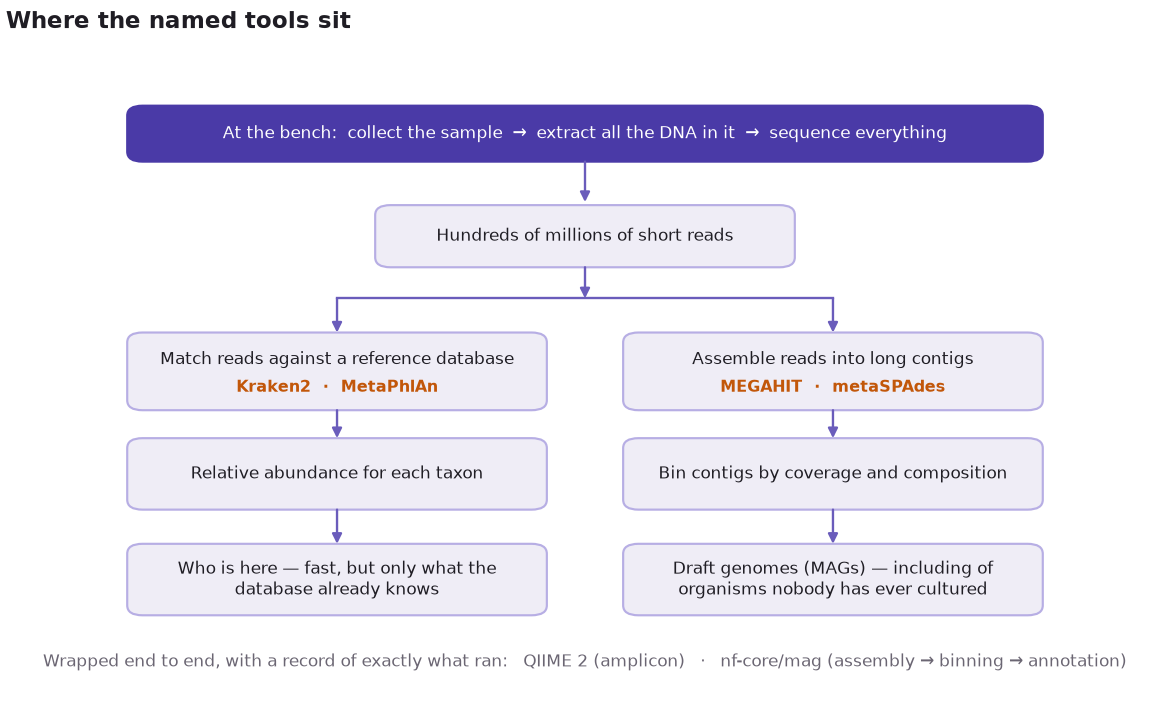
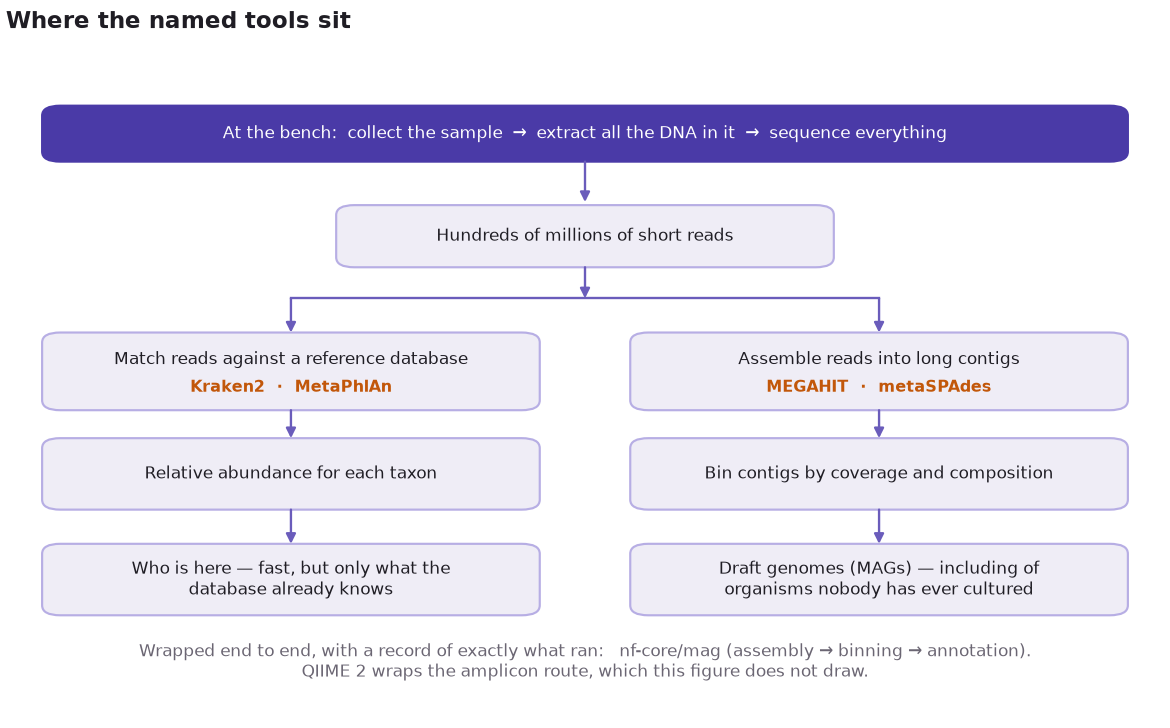
fix(posts): correct the two claims the review found unsupported
The compositionality caveat was stated backwards — "a taxon can rise only
because another fell" is false in absolute terms and a tautology in
relative ones. The actual hazard is that relative data cannot distinguish
a real increase in one taxon from a decrease in another, so say that.

The 1985 Pace claim cited Lane et al. 1985 PNAS, which is a
reverse-transcriptase sequencing protocol, not the environmental survey
proposal. That proposal is Pace, Stahl, Lane & Olsen, ASM News 51:4-12;
cite it, and keep the PNAS paper as the companion method paper.

Also: restore the dropped subtitle on the Handelsman reference, give the
culturability figure the provenance CLAUDE.md asks for (who assembled the
counts, what rides on them, why a log scale), stop the pipeline figure
claiming QIIME 2 wraps a route it does not draw, and bring the cover badge
in line with the frontmatter categories at house title margins.

diff --git a/docs/posts/metagenomics/index.html b/docs/posts/metagenomics/index.html
@@ -184,17 +184,17 @@ ul.task-list li input[type="checkbox"] {
 <figcaption>Metagenomics: Reading the Life That Won’t Grow</figcaption>
 </figure>
 </div>
-<p>A teaspoon of garden soil holds a billion bacterial cells from thousands of species. Smear it on nutrient agar, incubate it, and you get colonies — a few hundred, from a few dozen kinds. The rest are still in the teaspoon, alive, running chemistry nobody has catalogued, refusing to grow for you. For a century that was the edge of the map: microbiology could study only what it could talk into reproducing in a dish.</p>
+<p>A teaspoon of garden soil holds a billion bacterial cells from thousands of species. Smear it on nutrient agar, incubate it, and you get colonies — a few hundred, from a few dozen kinds. The rest are still in the teaspoon, alive, running chemistry nobody has catalogued, refusing to grow for you. For a century that was the edge of the map: microbiology could study only what it could talk into a dish.</p>
 <section id="the-petri-dish-was-throwing-away-almost-everything" class="level2">
 <h2 class="anchored" data-anchor-id="the-petri-dish-was-throwing-away-almost-everything">The petri dish was throwing away almost everything</h2>
-<p>Staley and Konopka named the gap in 1985: the <em>great plate count anomaly</em>. Count cells under a microscope, count the colonies the same sample yields on agar, and the two disagree by orders of magnitude. Amann, Ludwig and Schleifer tabulated how badly in 1995.</p>
+<p>Staley and Konopka named the gap in 1985: the <em>great plate count anomaly</em>. Count cells under a microscope, count the colonies the same sample yields on agar, and the two disagree by orders of magnitude. Amann, Ludwig and Schleifer tabulated how badly in 1995, assembling other groups’ counts to argue for identifying cells without growing them. If plates see 0.3% of soil, everything concluded from a plate is a conclusion about that 0.3% — and the values span five orders of magnitude, so the chart below is log-scaled.</p>
 <div class="quarto-figure quarto-figure-center">
 <figure class="figure">
 <p><img src="./fig-plate-count.png" class="img-fluid figure-img"></p>
 <figcaption>Culturability by habitat: colony-forming units as a share of the cells actually counted under the microscope. Source: Amann, Ludwig &amp; Schleifer 1995, <em>Microbiological Reviews</em> 59(1), Table 1.</figcaption>
 </figure>
 </div>
-<p>Soil sits at 0.3%; seawater can fall to a thousandth of a percent. A plate is a single guess — one diet, one temperature, one oxygen level, no neighbours — and most microbes decline all four. The answer was not a better plate. It was to stop asking the organism to cooperate.</p>
+<p>Seawater can fall to a thousandth of a percent. A plate is a single guess — one diet, one temperature, one oxygen level, no neighbours — and most microbes decline all four. The answer was not a better plate. It was to stop asking the organism to cooperate.</p>
 </section>
 <section id="metagenomics-reads-the-community-not-the-organism" class="level2">
 <h2 class="anchored" data-anchor-id="metagenomics-reads-the-community-not-the-organism">Metagenomics reads the community, not the organism</h2>
@@ -224,7 +224,7 @@ ul.task-list li input[type="checkbox"] {
 </section>
 <section id="the-bottleneck-moved-from-the-bench-to-the-laptop" class="level2">
 <h2 class="anchored" data-anchor-id="the-bottleneck-moved-from-the-bench-to-the-laptop">The bottleneck moved from the bench to the laptop</h2>
-<p>One run returns hundreds of millions of reads from an unknown number of organisms; a handful of tools do most of the work of making them mean something.</p>
+<p>One run returns hundreds of millions of reads from an unknown number of organisms. A handful of tools make them mean something.</p>
 <div class="quarto-figure quarto-figure-center">
 <figure class="figure">
 <p><img src="./fig-pipeline.png" class="img-fluid figure-img"></p>
@@ -240,16 +240,16 @@ ul.task-list li input[type="checkbox"] {
 </section>
 <section id="what-it-still-cant-tell-you" class="level2">
 <h2 class="anchored" data-anchor-id="what-it-still-cant-tell-you">What it still can’t tell you</h2>
-<p>A metagenome-assembled genome is a composite, averaged over a population of near-identical cells rather than read from one. Abundances are relative, so a taxon can rise only because another fell. DNA present is not gene expressed — for that you need RNA. And every profiler is bounded by its reference database, which is why the unclassified fraction is often the interesting part.</p>
-<p>None of that is a retreat to the dish, which answered one question well and silently discarded almost the whole sample. Metagenomics keeps all of it and returns an answer whose limits you can see. The invisible world was never hiding — it was waiting for a method that didn’t require it to grow.</p>
+<p>A metagenome-assembled genome is a composite, averaged over a population of near-identical cells rather than read from one. Abundances are relative, so a taxon can <em>appear</em> to rise merely because another fell — and the data cannot tell you which happened. DNA present is not gene expressed; for that you need RNA. And every profiler is bounded by its reference database, which is why the unclassified fraction is often the interesting part.</p>
+<p>None of that is a retreat to the dish, which answered one question well and discarded almost the whole sample. Metagenomics keeps all of it and returns an answer whose limits you can see. The invisible world was never hiding — it was waiting for a method that didn’t require it to grow.</p>
 </section>
 <section id="further-reading" class="level2">
 <h2 class="anchored" data-anchor-id="further-reading">Further reading</h2>
 <ul>
 <li>Staley, J. T. &amp; Konopka, A. (1985). <a href="https://doi.org/10.1146/annurev.mi.39.100185.001541">Measurement of in situ activities of nonphotosynthetic microorganisms in aquatic and terrestrial habitats</a>. <em>Annual Review of Microbiology</em> 39:321–346 — the great plate count anomaly.</li>
 <li>Amann, R. I., Ludwig, W. &amp; Schleifer, K.-H. (1995). <a href="https://doi.org/10.1128/mr.59.1.143-169.1995">Phylogenetic identification and in situ detection of individual microbial cells without cultivation</a>. <em>Microbiological Reviews</em> 59(1):143–169 — the source of the culturability figures above.</li>
-<li>Lane, D. J., Pace, B., Olsen, G. J., Stahl, D. A., Sogin, M. L. &amp; Pace, N. R. (1985). <a href="https://doi.org/10.1073/pnas.82.20.6955">Rapid determination of 16S ribosomal RNA sequences for phylogenetic analyses</a>. <em>PNAS</em> 82(20):6955–6959 — and the argument laid out in full in Pace, N. R., Stahl, D. A., Lane, D. J. &amp; Olsen, G. J. (1986), <a href="https://doi.org/10.1007/978-1-4757-0611-6_1">The analysis of natural microbial populations by ribosomal RNA sequences</a>, <em>Advances in Microbial Ecology</em> 9:1–55.</li>
-<li>Handelsman, J., Rondon, M. R., Brady, S. F., Clardy, J. &amp; Goodman, R. M. (1998). <a href="https://doi.org/10.1016/S1074-5521(98)90108-9">Molecular biological access to the chemistry of unknown soil microbes</a>. <em>Chemistry &amp; Biology</em> 5(10):R245–R249 — where the word is coined.</li>
+<li>Pace, N. R., Stahl, D. A., Lane, D. J. &amp; Olsen, G. J. (1985). Analyzing natural microbial populations by rRNA sequences. <em>ASM News</em> 51:4–12 — the 1985 proposal itself, laid out in full a year later in <a href="https://doi.org/10.1007/978-1-4757-0611-6_1">The analysis of natural microbial populations by ribosomal RNA sequences</a>, <em>Advances in Microbial Ecology</em> 9:1–55. The companion method paper is Lane, D. J., Pace, B., Olsen, G. J., Stahl, D. A., Sogin, M. L. &amp; Pace, N. R. (1985), <a href="https://doi.org/10.1073/pnas.82.20.6955">Rapid determination of 16S ribosomal RNA sequences for phylogenetic analyses</a>, <em>PNAS</em> 82(20):6955–6959.</li>
+<li>Handelsman, J., Rondon, M. R., Brady, S. F., Clardy, J. &amp; Goodman, R. M. (1998). <a href="https://doi.org/10.1016/S1074-5521(98)90108-9">Molecular biological access to the chemistry of unknown soil microbes: a new frontier for natural products</a>. <em>Chemistry &amp; Biology</em> 5(10):R245–R249 — where the word is coined.</li>
 <li>Tyson, G. W., Chapman, J., Hugenholtz, P., Allen, E. E., Ram, R. J., … Banfield, J. F. (2004). <a href="https://doi.org/10.1038/nature02340">Community structure and metabolism through reconstruction of microbial genomes from the environment</a>. <em>Nature</em> 428:37–43.</li>
 <li>Bolyen, E. et al.&nbsp;(2019). <a href="https://doi.org/10.1038/s41587-019-0209-9">Reproducible, interactive, scalable and extensible microbiome data science using QIIME 2</a>. <em>Nature Biotechnology</em> 37:852–857.</li>
 <li>Tools: <a href="https://github.com/voutcn/megahit">MEGAHIT</a>, <a href="https://github.com/ablab/spades">metaSPAdes</a>, <a href="https://github.com/biobakery/MetaPhlAn">MetaPhlAn</a>, <a href="https://github.com/DerrickWood/kraken2">Kraken2</a>, <a href="https://qiime2.org/">QIIME 2</a>, <a href="https://nf-co.re/mag">nf-core/mag</a>.</li>

diff --git a/docs/index.html b/docs/index.html
@@ -239,7 +239,7 @@ Reading Time
 <span class="listing-reading-time">8 min</span>
 </td>
 </tr>
-<tr data-index="1" data-categories="QmlvbG9neSUyQ0dlbm9taWNzJTJDRGF0YSUyMFNjaWVuY2U=" data-listing-date-sort="1786338000000" data-listing-file-modified-sort="1786381419404" data-listing-date-modified-sort="NaN" data-listing-reading-time-sort="5" data-listing-word-count-sort="963" data-listing-title-sort="Metagenomics: Reading the Life That Won't Grow" data-listing-filename-sort="index.qmd">
+<tr data-index="1" data-categories="QmlvbG9neSUyQ0dlbm9taWNzJTJDRGF0YSUyMFNjaWVuY2U=" data-listing-date-sort="1786338000000" data-listing-file-modified-sort="1786382472047" data-listing-date-modified-sort="NaN" data-listing-reading-time-sort="6" data-listing-word-count-sort="1028" data-listing-title-sort="Metagenomics: Reading the Life That Won't Grow" data-listing-filename-sort="index.qmd">
 <td>
 <span class="listing-image"><img loading="lazy" src="./posts/metagenomics/cover.png" style="height: 40px;"></span>
 </td>
@@ -250,7 +250,7 @@ Reading Time
 <a href="./posts/metagenomics/index.html" class="title listing-title">Metagenomics: Reading the Life That Won’t Grow</a>
 </td>
 <td>
-<span class="listing-reading-time">5 min</span>
+<span class="listing-reading-time">6 min</span>
 </td>
 </tr>
 <tr data-index="2" data-categories="TExNJTJDRXZhbHVhdGlvbiUyQ0FJJTIwRW5naW5lZXJpbmc=" data-listing-date-sort="1786251600000" data-listing-file-modified-sort="1786324144753" data-listing-date-modified-sort="NaN" data-listing-reading-time-sort="7" data-listing-word-count-sort="1322" data-listing-title-sort="How Prompt Evaluation Pipelines Work" data-listing-filename-sort="index.qmd">

diff --git a/posts/metagenomics/src/make_figs.py b/posts/metagenomics/src/make_figs.py
@@ -340,8 +340,14 @@ def fig_pipeline() -> None:
     ax.text(
         50,
         7.5,
+        # Only the shotgun route is drawn above, so only nf-core/mag can be
+        # claimed to wrap it. QIIME 2 is an amplicon workflow and processes no
+        # branch in this figure -- say so rather than implying it sits here.
+        # Two lines: one long enough to overflow the axes forces tight_layout
+        # to widen them past the figure edge and clip the boxes above.
         "Wrapped end to end, with a record of exactly what ran:   "
-        "QIIME 2 (amplicon)   ·   nf-core/mag (assembly → binning → annotation)",
+        "nf-core/mag (assembly → binning → annotation).\n"
+        "QIIME 2 wraps the amplicon route, which this figure does not draw.",
         ha="center",
         va="center",
         fontsize=9.2,

diff --git a/posts/metagenomics/src/make_cover.py b/posts/metagenomics/src/make_cover.py
@@ -29,7 +29,7 @@ WHITE = "#FFFFFF"
 WIDTH, HEIGHT = 1200, 630
 DPI = 100
 
-BADGE = "GENOMICS & DATA"
+BADGE = "BIOLOGY & GENOMICS"
 TITLE = ["Metagenomics", "Reading the Life That Won't Grow"]
 
 
@@ -48,7 +48,7 @@ def main() -> int:
     ax.set_facecolor(PURPLE)
 
     # Category pill, top-left.
-    pill_w = 252
+    pill_w = 296
     ax.add_patch(
         FancyBboxPatch(
             (54, 40),
@@ -93,7 +93,7 @@ def main() -> int:
             446 + k * 74,
             line,
             color=WHITE,
-            fontsize=42,
+            fontsize=34,
             fontweight="bold",
             ha="center",
             va="center",
